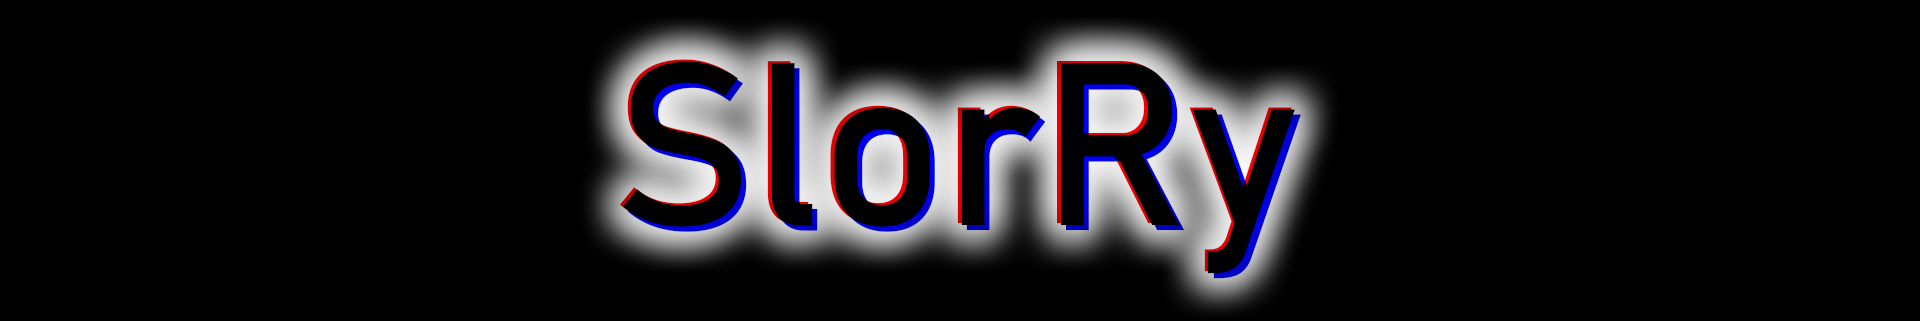
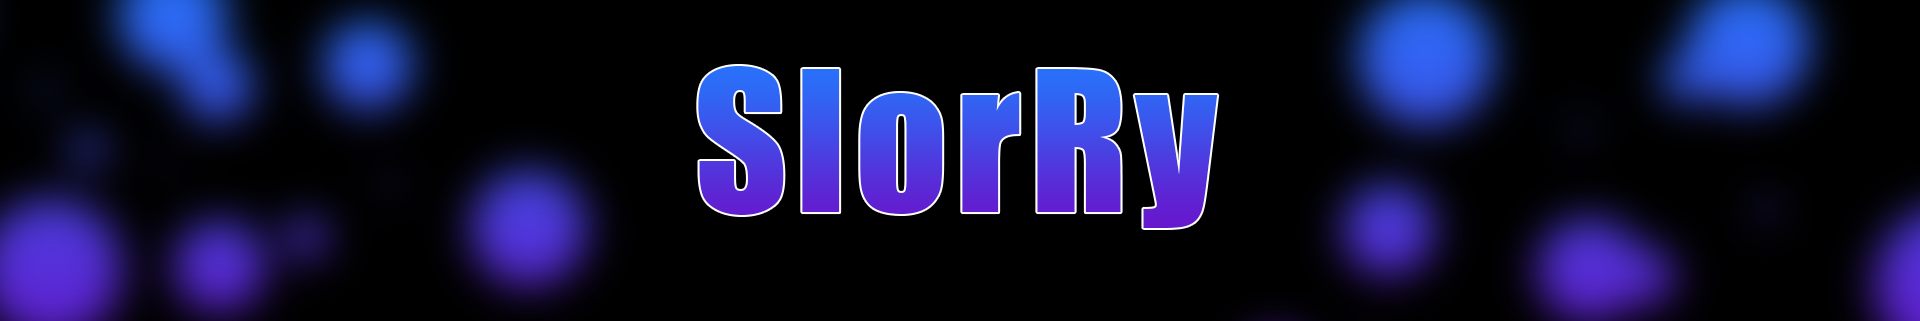
change header image and add links

diff --git a/README.md b/README.md
@@ -4,3 +4,13 @@
 ![CSS](https://img.shields.io/badge/CSS-000?style=for-the-badge&logo=css3)
 ![SCSS](https://img.shields.io/badge/SCSS-000?style=for-the-badge&logo=sass)
 ![JS](https://img.shields.io/badge/JavaScript-000?style=for-the-badge&logo=javascript)
+
+## Folow me:
+
+[![Twitter](https://img.shields.io/badge/Twitter-000?style=for-the-badge&logo=twitter)](twitter.com/slorry_)
+[![Instagram](https://img.shields.io/badge/Instagram-000?style=for-the-badge&logo=instagram)](instagram.com/slorry_)
+[![Telegram](https://img.shields.io/badge/Telegram-000?style=for-the-badge&logo=telegram)](https://t.me/slorrychannel)
+[![Twitch](https://img.shields.io/badge/Twitch-000?style=for-the-badge&logo=twitch)](twitch.tv/slorry_)
+[![Steam](https://img.shields.io/badge/Steam-000?style=for-the-badge&logo=steam)](https://steamcommunity.com/id/slorrybase/)
+[![Spotify](https://img.shields.io/badge/Spotify-000?style=for-the-badge&logo=spotify)](https://open.spotify.com/user/5uyudyu83dg3xup9yb20nolkx?si=f19087eb010d4570)
+[![VKontakte](https://img.shields.io/badge/VKontakte-000?style=for-the-badge&logo=vk)](vk.com/slorry)
